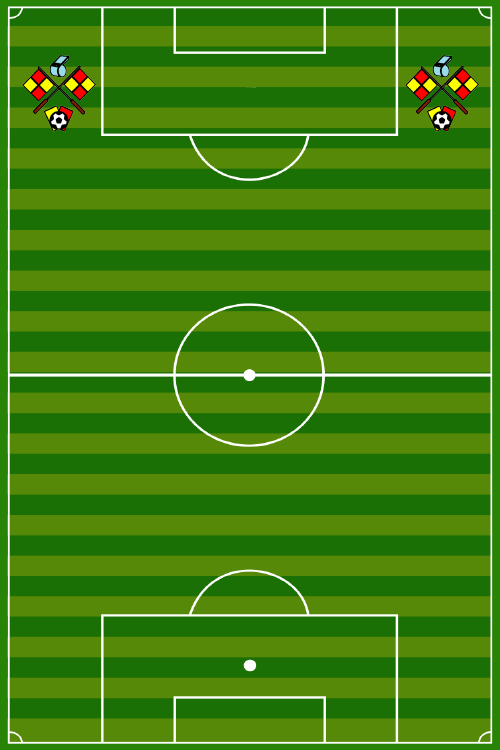
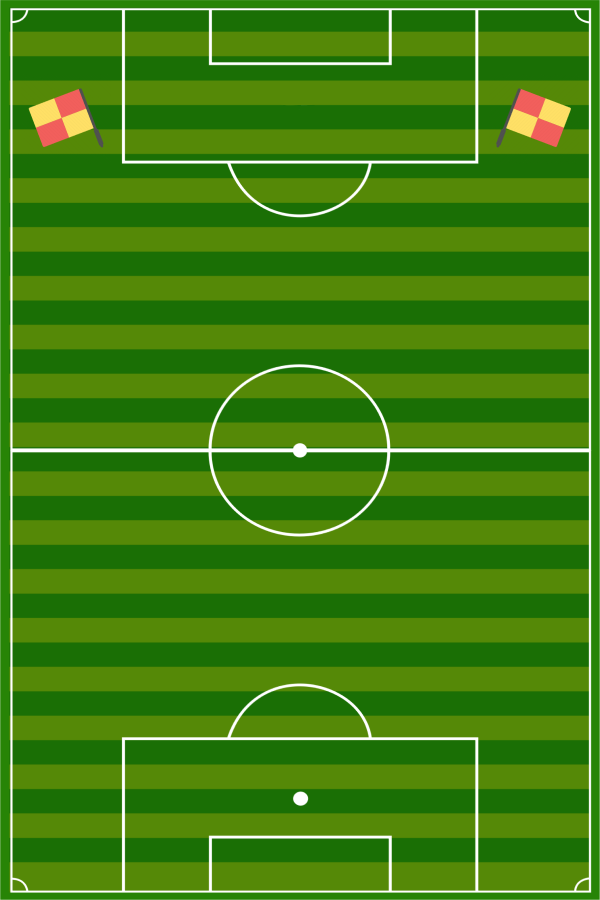
BETA 2323242
-Diseño renovado
-Reseteo de arbitros

diff --git a/TP3/src/vista/VentanaPrincipal.java b/TP3/src/vista/VentanaPrincipal.java
@@ -40,6 +40,7 @@ public class VentanaPrincipal {
 	
 	/**
 	 * Inicializa los elementos de la GUI
+	 * @wbp.parser.entryPoint
 	 */
 	public void inicializar() {
 		controlador = new Controlador();
@@ -47,25 +48,25 @@ public class VentanaPrincipal {
 		frame = new JFrame();
 		frame.getContentPane().setLayout(null);
 		frame.setResizable(false);
-		frame.setSize(512, 787);
+		frame.setBounds(500, 25, 500, 765);
 		frame.setDefaultCloseOperation(JFrame.EXIT_ON_CLOSE);
 		
 		JLabel titulo = new JLabel("LA HORA REFERI !");
 		titulo.setBackground(Color.WHITE);
 		titulo.setForeground(Color.WHITE);
-		titulo.setFont(new Font("Segoe UI Black", Font.BOLD, 30));
+		titulo.setFont(new Font("Segoe UI Black", Font.BOLD, 29));
 		titulo.setHorizontalAlignment(SwingConstants.CENTER);
 		titulo.setVerticalAlignment(SwingConstants.BOTTOM);
-		titulo.setBounds(107, 59, 284, 52);
+		titulo.setBounds(100, 59, 284, 50);
 		frame.getContentPane().add(titulo);
 		
 		JLabel sombraTitulo = new JLabel("LA HORA REFERI !");
 		sombraTitulo.setVerticalAlignment(SwingConstants.BOTTOM);
 		sombraTitulo.setHorizontalAlignment(SwingConstants.CENTER);
 		sombraTitulo.setForeground(Color.BLACK);
-		sombraTitulo.setFont(new Font("Segoe UI Black", Font.BOLD, 30));
+		sombraTitulo.setFont(new Font("Segoe UI Black", Font.BOLD, 29));
 		sombraTitulo.setBackground(Color.WHITE);
-		sombraTitulo.setBounds(108, 59, 290, 52);
+		sombraTitulo.setBounds(101, 60, 290, 50);
 		frame.getContentPane().add(sombraTitulo);
 		
 		fixtureArea = new JTextArea(controlador.getCampeonato().getFixture().toString());
@@ -79,7 +80,7 @@ public class VentanaPrincipal {
 		fixtureArea.setEditable(false);
 		
 		scrollPane = new JScrollPane(fixtureArea);
-		scrollPane.setBounds(29, 185, 445, 400);
+		scrollPane.setBounds(21, 185, 445, 400);
 		frame.getContentPane().add(scrollPane);
 		
 		JButton asignarArbitros = new JButton("ASIGNAR ARBITROS");
@@ -100,10 +101,10 @@ public class VentanaPrincipal {
 				}
 			}
 		});
-		asignarArbitros.setBounds(166, 611, 156, 23);
+		asignarArbitros.setBounds(21, 637, 139, 23);
 		frame.getContentPane().add(asignarArbitros);
 		
-		JButton estadisticasArbitros = new JButton("ESTADISTICAS DE ARBITROS");
+		JButton estadisticasArbitros = new JButton("ESTADISTICAS");
 		estadisticasArbitros.setFont(new Font("Segoe UI Black", Font.PLAIN, 10));
 		estadisticasArbitros.addActionListener(new ActionListener() {
 			public void actionPerformed(ActionEvent e) {
@@ -122,13 +123,26 @@ public class VentanaPrincipal {
 				}
 			}
 		});
-		estadisticasArbitros.setBounds(150, 658, 184, 23);
+		estadisticasArbitros.setBounds(173, 637, 139, 23);
 		frame.getContentPane().add(estadisticasArbitros);
-			
-		ImageIcon imagen = new ImageIcon("./src/archivos/campoImagen.png");
+		
+		JButton reiniciar = new JButton("REINICIAR");
+		reiniciar.setFont(new Font("Segoe UI Black", Font.PLAIN, 10));
+		reiniciar.addActionListener(new ActionListener() {
+			public void actionPerformed(ActionEvent e) {
+				controlador.resetear();
+				fixtureArea.setText(controlador.getCampeonato().getFixture().toString());
+				fixtureArea.setCaretPosition(0);
+			}
+		});
+		reiniciar.setBounds(327, 637, 139, 23);
+		frame.getContentPane().add(reiniciar);
+		
+		Fondo imagen = new Fondo(new ImageIcon("./src/archivos/campoImagen.png"));
         JLabel labelImagen = new JLabel();
-        labelImagen.setVerticalAlignment(SwingConstants.TOP);
-        labelImagen.setBounds(0, 0, 500, 750);
+        labelImagen.setHorizontalAlignment(SwingConstants.CENTER);
+        labelImagen.setVerticalAlignment(SwingConstants.CENTER);
+        labelImagen.setBounds(-11, -11, 507, 750);
         labelImagen.setIcon(imagen);
         frame.getContentPane().add(labelImagen);
         

diff --git a/TP3/src/vista/Fondo.java b/TP3/src/vista/Fondo.java
@@ -1,0 +1,49 @@
+package vista;
+
+import java.awt.Component;
+import java.awt.Graphics;
+import java.awt.Graphics2D;
+import java.awt.geom.AffineTransform;
+import javax.swing.Icon;
+
+public class Fondo implements Icon {
+	
+    private Icon icon;
+
+    
+    public Fondo(Icon icon) {
+        this.icon = icon;
+    }
+
+    
+    public int getIconWidth() {
+        return icon.getIconWidth();
+    }
+
+    
+    public int getIconHeight() {
+        return icon.getIconHeight();
+    }
+
+    
+    public void paintIcon(Component c, Graphics g, int x, int y) {
+    	Graphics2D g2d = (Graphics2D)g.create();
+        AffineTransform at = g2d.getTransform();
+
+        int scaleX = (int)(x * at.getScaleX());
+        int scaleY = (int)(y * at.getScaleY());
+
+        int offsetX = (int)(icon.getIconWidth() * (at.getScaleX() - 1) / 2);
+        int offsetY = (int)(icon.getIconHeight() * (at.getScaleY() - 1) / 2);
+
+        int locationX = scaleX + offsetX;
+        int locationY = scaleY + offsetY;
+
+        AffineTransform escala = AffineTransform.getScaleInstance(1.0 / at.getScaleX(), 1.0 / at.getScaleY());
+        at.concatenate(escala);
+        g2d.setTransform(at);
+        icon.paintIcon(c, g2d, locationX, locationY);
+        g2d.dispose();
+    }
+
+}

diff --git a/TP3/src/controlador/Controlador.java b/TP3/src/controlador/Controlador.java
@@ -1,7 +1,12 @@
 package controlador;
 
+import java.util.ArrayList;
+
 import archivos.LecturaFixture;
+import objetos.Arbitro;
 import objetos.Campeonato;
+import objetos.Fecha;
+import objetos.Partido;
 import solver.Solver;
 
 public class Controlador {
@@ -16,6 +21,18 @@ public class Controlador {
 	
 	public Campeonato getCampeonato() {
 		return campeonato;
+	}
+	
+	
+	public void resetear() {
+		ArrayList<Fecha> fechas = getCampeonato().getFixture().getFechas();
+		for (Fecha f : fechas) {
+			for (Partido p : f.getPartidos()) {
+				if (p.getArbitro() != null) {
+					p.setArbitro(null);
+				}
+			}
+		}
 	}
 
 
